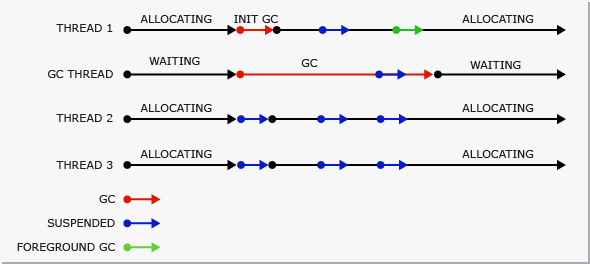
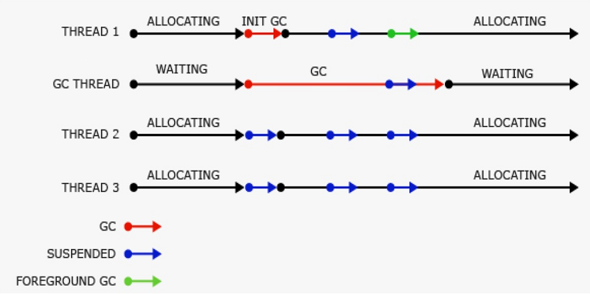
Revise workstation GC image (#11220)
* Replaced GC image

* Added links to LOH article

* miscellaneous changes

* Cropped image

* Resized image

* Removed menu

* Added description

Changed region(s): [[0.0, 0.0, 1.0, 1.0], [0.061, 0.8182, 0.2746, 0.8788], [0.1525, 0.7273, 0.2746, 0.7879]]

diff --git a/docs/standard/garbage-collection/fundamentals.md b/docs/standard/garbage-collection/fundamentals.md
@@ -1,6 +1,7 @@
 ---
-title: "Fundamentals of Garbage Collection"
-ms.date: "03/30/2017"
+title: "Fundamentals of garbage collection"
+description: "Learn how the garbage collector works and how it can be configured for optimum performance.
+ms.date: "03/08/2018"
 ms.technology: dotnet-standard
 helpviewer_keywords: 
   - "garbage collection, generations"
@@ -13,7 +14,7 @@ ms.assetid: 67c5a20d-1be1-4ea7-8a9a-92b0b08658d2
 author: "rpetrusha"
 ms.author: "ronpet"
 ---
-# Fundamentals of Garbage Collection
+# Fundamentals of garbage collection
 <a name="top"></a> In the common language runtime (CLR), the garbage collector serves as an automatic memory manager. It provides the following benefits:  
   
 -   Enables you to develop your application without having to free memory.  
@@ -24,28 +25,8 @@ ms.author: "ronpet"
   
 -   Provides memory safety by making sure that an object cannot use the content of another object.  
   
- This topic describes the core concepts of garbage collection. It contains the following sections:  
-  
--   [Fundamentals of memory](#fundamentals_of_memory)  
-  
--   [Conditions for a garbage collection](#conditions_for_a_garbage_collection)  
-  
--   [The managed heap](#the_managed_heap)  
-  
--   [Generations](#generations)  
-  
--   [What happens during a garbage collection](#what_happens_during_a_garbage_collection)  
-  
--   [Manipulating unmanaged resources](#manipulating_unmanaged_resources)  
-  
--   [Workstation and server garbage collection](#workstation_and_server_garbage_collection)  
-  
--   [Concurrent garbage collection](#concurrent_garbage_collection)  
-  
--   [Background workstation garbage collection](#background_garbage_collection)  
-  
--   [Background server garbage collection](#background_server_garbage_collection)  
-  
+ This topic describes the core concepts of garbage collection. 
+ 
 <a name="fundamentals_of_memory"></a>   
 ## Fundamentals of memory  
  The following list summarizes important CLR memory concepts.  
@@ -103,9 +84,9 @@ ms.author: "ronpet"
   
  The intrusiveness (frequency and duration) of garbage collections is the result of the volume of allocations and the amount of survived memory on the managed heap.  
   
- The heap can be considered as the accumulation of two heaps: the large object heap and the small object heap.  
+ The heap can be considered as the accumulation of two heaps: the [large object heap](large-object-heap.md) and the small object heap.  
   
- The large object heap contains very large objects that are 85,000 bytes and larger. The objects on the large object heap are usually arrays. It is rare for an instance object to be extremely large.  
+ The [large object heap](large-object-heap.md) contains very large objects that are 85,000 bytes and larger. The objects on the large object heap are usually arrays. It is rare for an instance object to be extremely large.  
   
  [Back to top](#top)  
   
